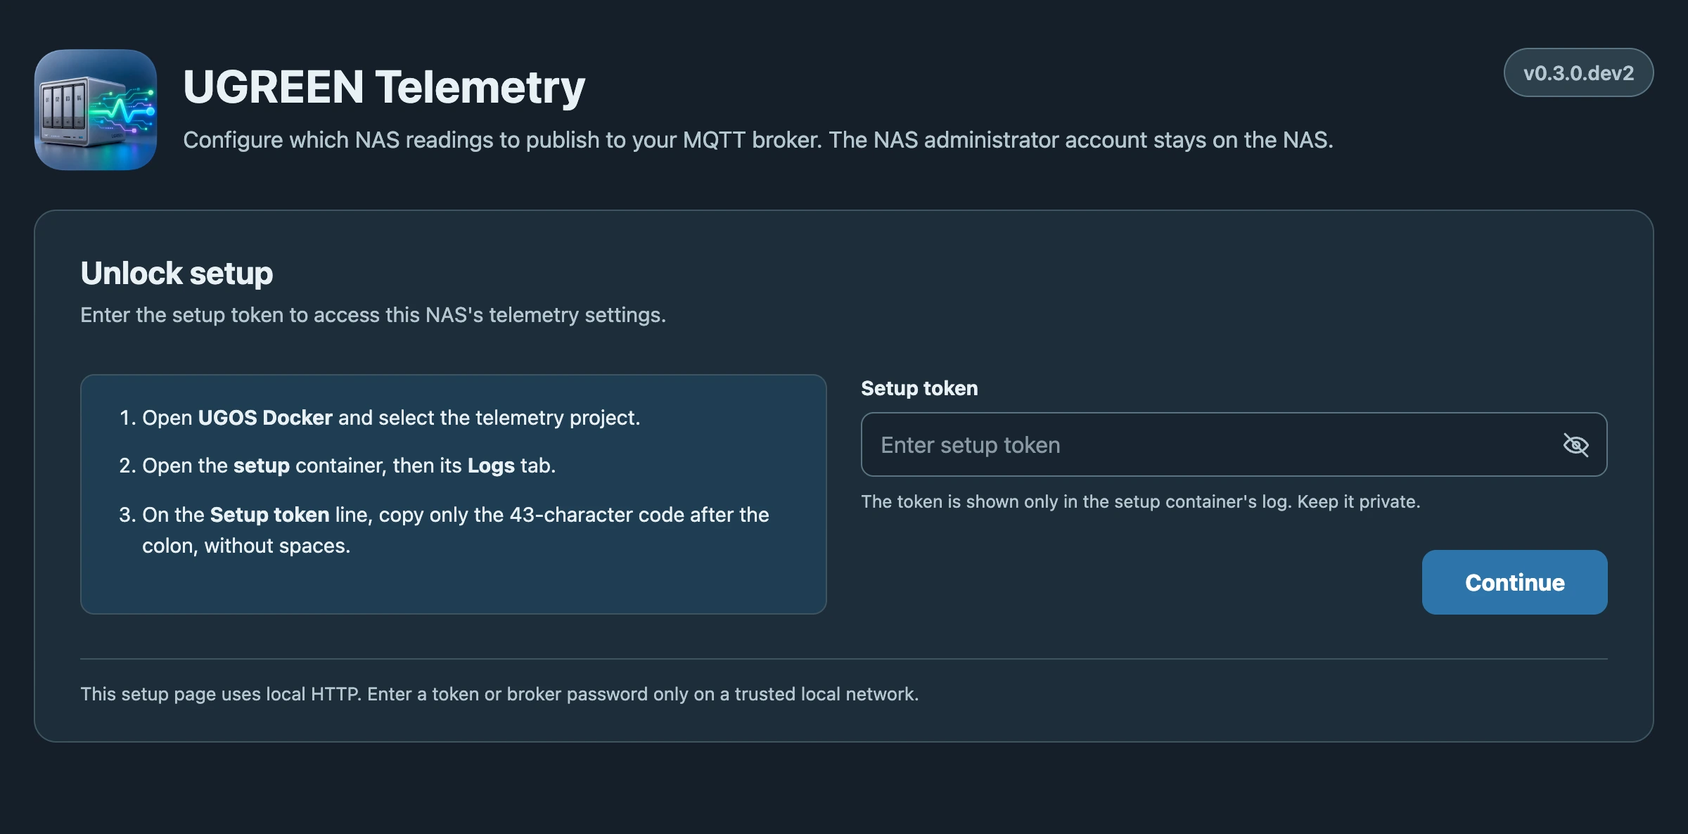
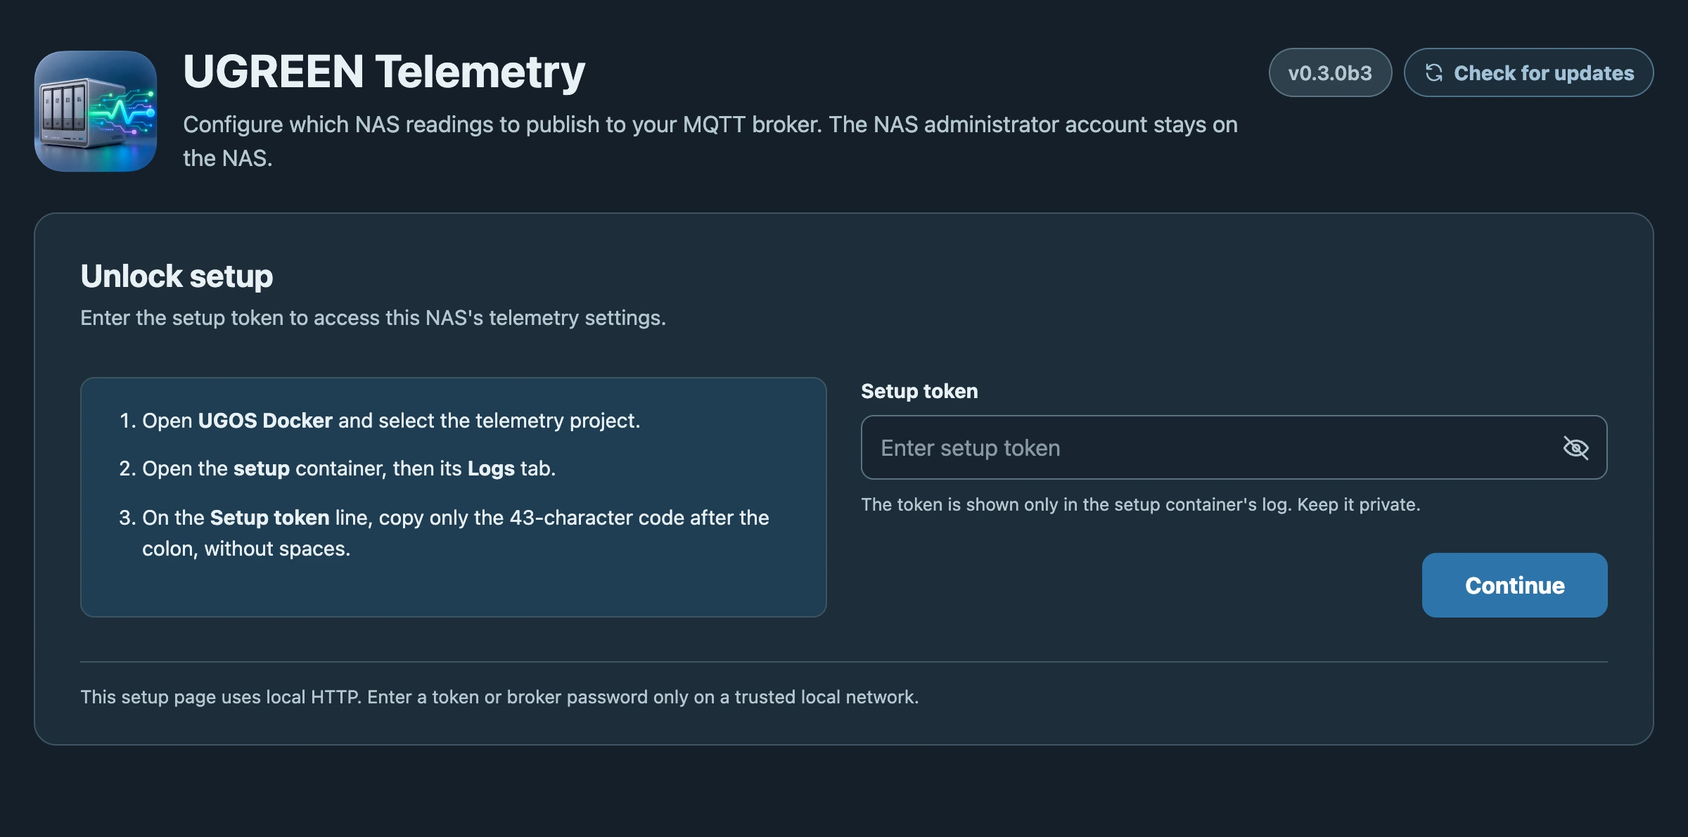
Add an on-demand update check to the setup page
A Check for updates button next to the installed version asks the
GitHub API for the published releases, from the browser and only when
pressed. It names a newer release and links to its notes and to the
UGOS update steps. Betas follow every release; stable versions follow
stable releases only. The content security policy allows only
api.github.com besides the NAS, and the NAS itself sends nothing.

diff --git a/src/ugreen_telemetry/web_assets/update-check.js b/src/ugreen_telemetry/web_assets/update-check.js
@@ -1,0 +1,84 @@
+'use strict';
+// On-demand update check. This browser asks the GitHub API for the published
+// releases; the NAS sends nothing and the setup container opens no connection.
+const UPDATE_REPOSITORY = 'Interstellar0verdrive/ugreen-telemetry-mqtt';
+const UPDATE_RELEASES_API = `https://api.github.com/repos/${UPDATE_REPOSITORY}/releases?per_page=30`;
+const UPDATE_RELEASES_PAGE = `https://github.com/${UPDATE_REPOSITORY}/releases`;
+const UPDATE_GUIDE = `https://github.com/${UPDATE_REPOSITORY}/blob/main/docs/release-and-updates.md#updating-in-ugos`;
+
+// Versions follow Python's format: 0.3.0b2 is the second beta of 0.3.0, and
+// 0.3.0a1 < 0.3.0b1 < 0.3.0rc1 < 0.3.0. Anything else is not comparable.
+function parseVersion(text){
+  const value=String(text).trim().replace(/^v/,'');
+  const match=/^(\d+)\.(\d+)\.(\d+)(?:(a|b|rc)(\d+))?$/.exec(value);
+  if(!match) return null;
+  const stage=match[4]?{a:0,b:1,rc:2}[match[4]]:3;
+  return {text:value,parts:[+match[1],+match[2],+match[3],stage,match[5]?+match[5]:0],stable:!match[4]};
+}
+
+function compareVersions(a,b){
+  for(let i=0;i<a.parts.length;i++) if(a.parts[i]!==b.parts[i]) return a.parts[i]-b.parts[i];
+  return 0;
+}
+
+// Pick the release to offer. A beta or release-candidate install follows every
+// release; a stable install follows stable releases only.
+function chooseUpdate(releases,installedText){
+  const installed=parseVersion(installedText);
+  const candidates=releases
+    .filter(release=>release&&!release.draft)
+    .map(release=>({url:release.html_url,version:parseVersion(release.tag_name)}))
+    .filter(item=>item.version&&(!installed||!installed.stable||item.version.stable))
+    .sort((a,b)=>compareVersions(b.version,a.version));
+  const latest=candidates[0];
+  if(!latest) return null;
+  if(!installed) return {kind:'unknown',installed:null,latest};
+  return {kind:compareVersions(latest.version,installed)>0?'available':'current',installed,latest};
+}
+
+if(typeof document!=='undefined'&&document.getElementById('update-check')){
+  const byId=id=>document.getElementById(id);
+  const button=byId('update-check');
+  const label=byId('update-check-label');
+  const box=byId('update');
+  const notes=byId('update-notes');
+  const guide=byId('update-guide');
+  guide.href=UPDATE_GUIDE;
+
+  const show=(kind,title,detail,link,linkText='Release notes')=>{
+    box.className=`update is-${kind}`;
+    byId('update-title').textContent=title;
+    byId('update-detail').textContent=detail;
+    notes.hidden=!link;
+    if(link){notes.href=link;notes.textContent=linkText;}
+    guide.hidden=kind!=='available';
+    box.hidden=false;
+  };
+
+  button.addEventListener('click',async()=>{
+    const installedText=byId('version').textContent;
+    button.disabled=true;button.classList.add('is-checking');label.textContent='Checking…';
+    const controller=new AbortController();
+    const timer=setTimeout(()=>controller.abort(),10000);
+    try{
+      const response=await fetch(UPDATE_RELEASES_API,{headers:{Accept:'application/vnd.github+json'},cache:'no-store',credentials:'omit',referrerPolicy:'no-referrer',signal:controller.signal});
+      if(!response.ok) throw new Error(`GitHub answered ${response.status}`);
+      const result=chooseUpdate(await response.json(),installedText);
+      if(!result) throw new Error('No published release found');
+      const latest=result.latest.version.text;
+      if(result.kind==='unknown'){
+        show('available',`The latest release is ${latest}`,'This page could not read its own version. Compare it with the image tag in UGOS Docker.',result.latest.url);
+      }else if(result.kind==='available'){
+        show('available',`Version ${latest} is available`,`You have ${result.installed.text}. Read the release notes, then update the project in UGOS Docker.`,result.latest.url);
+      }else{
+        show('current','You have the latest version',`${result.installed.text} is the newest ${result.installed.stable?'stable ':''}release.`,null);
+      }
+    }catch(_error){
+      show('error','Update check unavailable','GitHub could not be reached from this browser. Try again later, or open the releases page.',UPDATE_RELEASES_PAGE,'Releases');
+    }finally{
+      clearTimeout(timer);
+      button.disabled=false;button.classList.remove('is-checking');label.textContent='Check for updates';
+    }
+  });
+  byId('update-close').addEventListener('click',()=>{box.hidden=true;button.focus();});
+}

diff --git a/src/ugreen_telemetry/web_assets/style.css b/src/ugreen_telemetry/web_assets/style.css
@@ -232,3 +232,43 @@
   .login-actions .feedback:not([hidden]){grid-column:1/-1;grid-row:1}
   .login-actions .feedback:not([hidden])+.continue{grid-row:2}
 }
+.update-check{display:inline-flex;align-items:center;gap:7px;white-space:nowrap;padding:8px 13px;border:1px solid var(--brand-line);border-radius:999px;background:var(--surface);color:var(--brand-heading);font-size:.88rem;font-weight:750;cursor:pointer;transition:background-color var(--motion) var(--ease),border-color var(--motion) var(--ease)}
+.update-check svg{flex:none;width:15px;height:15px}
+.update-check:hover{border-color:var(--brand);background:var(--brand-soft)}
+.update-check:focus-visible,.update-link:focus-visible,.update-close:focus-visible{outline:2px solid var(--focus);outline-offset:2px}
+.update-check:disabled{cursor:wait;opacity:.8}
+.update-check.is-checking svg{animation:update-spin 1s linear infinite}
+@keyframes update-spin{to{transform:rotate(360deg)}}
+.update{display:grid;grid-template-columns:auto minmax(0,1fr) auto auto;align-items:center;column-gap:14px;margin:-7px 0 22px;padding:14px 14px 14px 18px;border:1px solid var(--brand-line);border-radius:14px;background:var(--brand-soft)}
+.update[hidden]{display:none}
+.update-icon{width:26px;height:26px;color:var(--brand-heading)}
+.update-icon path{display:none}
+.update.is-available .icon-available,.update.is-current .icon-current,.update.is-error .icon-error{display:inline}
+.update.is-current{border-color:var(--success-line);background:var(--success-soft)}
+.update.is-current .update-icon{color:var(--success)}
+.update.is-error{border-color:color-mix(in srgb,var(--warning) 45%,var(--line));background:var(--warning-soft)}
+.update.is-error .update-icon{color:var(--warning)}
+.update-text{display:flex;flex-direction:column;gap:3px;min-width:0;line-height:1.45}
+.update-text strong{font-size:.95rem}
+.update-text span{color:var(--muted);font-size:.85rem}
+.update-actions{display:flex;align-items:center;gap:8px}
+.update-link{display:inline-flex;align-items:center;justify-content:center;white-space:nowrap;padding:9px 14px;border:1px solid var(--brand-line);border-radius:9px;background:var(--surface);color:var(--brand-heading);font-size:.85rem;font-weight:750;text-decoration:none;transition:background-color var(--motion) var(--ease),border-color var(--motion) var(--ease)}
+.update-link:hover{border-color:var(--brand)}
+.update-link.is-primary{border-color:var(--brand);background:var(--brand);color:var(--on-brand)}
+.update-link.is-primary:hover{background:var(--brand-deep)}
+.update-link[hidden]{display:none}
+.update-close{display:inline-grid;place-items:center;width:32px;height:32px;padding:0;border:0;border-radius:8px;background:transparent;color:var(--muted);cursor:pointer}
+.update-close svg{width:16px;height:16px}
+.update-close:hover{background:color-mix(in srgb,var(--surface) 60%,transparent);color:var(--ink)}
+@media(max-width:660px){
+  .badges{flex-wrap:wrap;row-gap:6px}
+  .update-check{padding:2px 7px;gap:4px;font-size:.72rem;line-height:1.2}
+  .update-check svg{width:11px;height:11px}
+  .update{grid-template-columns:auto minmax(0,1fr) auto;row-gap:12px;column-gap:11px;margin:-8px 0 16px;padding:13px 10px 13px 14px;border-radius:12px}
+  .update-icon{align-self:start;width:22px;height:22px}
+  .update-close{align-self:start;width:28px;height:28px;margin-top:-3px}
+  .update-actions{grid-column:1/-1;grid-row:2}
+  .update-actions:not(:has(.update-link:not([hidden]))){display:none}
+  .update-link{flex:1}
+}
+@media (prefers-reduced-motion: reduce){.update-check.is-checking svg{animation:none}}

diff --git a/src/ugreen_telemetry/web_assets/index.html b/src/ugreen_telemetry/web_assets/index.html
@@ -8,15 +8,22 @@
   <link rel="icon" type="image/png" media="(prefers-color-scheme: dark)" href="app-icon-dark.png">
   <title>UGREEN Telemetry setup</title>
   <link rel="stylesheet" href="style.css">
-  <script src="app.js?v=20261026-3" defer></script>
+  <script src="app.js?v=20261116-1" defer></script>
+  <script src="update-check.js?v=20261116-1" defer></script>
 </head>
 <body>
   <main>
     <header class="masthead">
       <picture class="logo"><source media="(prefers-color-scheme: dark)" srcset="app-icon-dark.png"><img src="app-icon-light.png" alt="" aria-hidden="true"></picture>
       <div class="title-area"><h1>UGREEN Telemetry</h1><p class="intro">Configure which NAS readings to publish to your MQTT broker. The NAS administrator account stays on the NAS.</p></div>
-      <div class="badges"><span class="version">Local preview</span><span class="status" id="verified" hidden>Token verified</span></div>
+      <div class="badges"><span class="version" id="version">Local preview</span><button class="update-check" id="update-check" type="button"><svg viewBox="0 0 24 24" fill="none" stroke="currentColor" stroke-width="2" stroke-linecap="round" stroke-linejoin="round" aria-hidden="true"><path d="M20 11a8 8 0 0 0-14.6-4.5L4 8"/><path d="M4 3v5h5"/><path d="M4 13a8 8 0 0 0 14.6 4.5L20 16"/><path d="M20 21v-5h-5"/></svg><span id="update-check-label">Check for updates</span></button><span class="status" id="verified" hidden>Token verified</span></div>
     </header>
+    <section class="update" id="update" aria-labelledby="update-title" hidden>
+      <svg class="update-icon" viewBox="0 0 24 24" fill="none" stroke="currentColor" stroke-width="2" stroke-linecap="round" stroke-linejoin="round" aria-hidden="true"><circle cx="12" cy="12" r="9"/><path class="icon-available" d="M12 16V8m-3.5 3.5L12 8l3.5 3.5"/><path class="icon-current" d="m8.5 12.2 2.4 2.4 4.6-5"/><path class="icon-error" d="M12 7.5v5.5m0 3.4v.1"/></svg>
+      <div class="update-text" role="status" aria-live="polite"><strong id="update-title"></strong><span id="update-detail"></span></div>
+      <div class="update-actions"><a class="update-link is-primary" id="update-notes" target="_blank" rel="noopener noreferrer">Release notes</a><a class="update-link" id="update-guide" target="_blank" rel="noopener noreferrer">How to update</a></div>
+      <button class="update-close" id="update-close" type="button" aria-label="Close update result"><svg viewBox="0 0 24 24" fill="none" stroke="currentColor" stroke-width="2" stroke-linecap="round" aria-hidden="true"><path d="M6 6l12 12M18 6 6 18"/></svg></button>
+    </section>
     <form id="login" class="panel" aria-labelledby="unlock-title" novalidate>
       <h2 id="unlock-title">Unlock setup</h2>
       <p class="section-intro">Enter the setup token to access this NAS's telemetry settings.</p>

diff --git a/tests/test_update_check.py b/tests/test_update_check.py
@@ -1,0 +1,111 @@
+from __future__ import annotations
+
+import io
+import json
+import shutil
+import subprocess
+import unittest
+from pathlib import Path
+
+from ugreen_telemetry import web
+
+SCRIPT = Path(web.__file__).parent / "web_assets" / "update-check.js"
+NODE = shutil.which("node")
+
+# Runs chooseUpdate() from the page script in Node, without a DOM.
+HARNESS = """
+const vm = require('vm');
+const fs = require('fs');
+const context = {};
+vm.createContext(context);
+vm.runInContext(fs.readFileSync(process.argv[1], 'utf8') + ';this.chooseUpdate=chooseUpdate;', context);
+const cases = JSON.parse(fs.readFileSync(0, 'utf8'));
+const results = cases.map(([releases, installed]) => {
+  const result = context.chooseUpdate(releases, installed);
+  return result && {kind: result.kind, latest: result.latest.version.text, url: result.latest.url};
+});
+process.stdout.write(JSON.stringify(results));
+"""
+
+
+def release(tag, draft=False):
+    return {"tag_name": tag, "draft": draft, "html_url": f"https://example.invalid/{tag}"}
+
+
+@unittest.skipIf(NODE is None, "Node.js is not installed")
+class ChooseUpdateTests(unittest.TestCase):
+    def choose(self, *cases):
+        result = subprocess.run([NODE, "-e", HARNESS, str(SCRIPT)], input=json.dumps(cases),
+                                capture_output=True, text=True, check=True, timeout=30)
+        return json.loads(result.stdout)
+
+    def test_beta_install_is_offered_the_next_beta(self):
+        releases = [release("v0.3.0b1"), release("v0.3.0b3"), release("v0.3.0b2")]
+        available, current = self.choose([releases, "v0.3.0b2"], [releases, "v0.3.0b3"])
+        self.assertEqual(available, {"kind": "available", "latest": "0.3.0b3",
+                                     "url": "https://example.invalid/v0.3.0b3"})
+        self.assertEqual(current["kind"], "current")
+
+    def test_stable_install_ignores_betas(self):
+        only_beta_newer, stable_newer = self.choose(
+            [[release("v0.4.0b1"), release("v0.3.0")], "v0.3.0"],
+            [[release("v0.4.0b1"), release("v0.3.1")], "v0.3.0"])
+        self.assertEqual((only_beta_newer["kind"], only_beta_newer["latest"]), ("current", "0.3.0"))
+        self.assertEqual((stable_newer["kind"], stable_newer["latest"]), ("available", "0.3.1"))
+
+    def test_python_version_order(self):
+        final_after_beta, rc_after_beta, numeric, alpha = self.choose(
+            [[release("v0.3.0")], "v0.3.0b2"],
+            [[release("v0.3.0rc1"), release("v0.3.0b9")], "v0.3.0b9"],
+            [[release("v0.10.0b1"), release("v0.9.0b1")], "v0.9.0b1"],
+            [[release("v0.3.0a1")], "v0.3.0b1"])
+        self.assertEqual((final_after_beta["kind"], final_after_beta["latest"]), ("available", "0.3.0"))
+        self.assertEqual(rc_after_beta["latest"], "0.3.0rc1")
+        self.assertEqual(numeric["latest"], "0.10.0b1")
+        self.assertEqual((alpha["kind"], alpha["latest"]), ("current", "0.3.0a1"))
+
+    def test_drafts_and_unknown_tags_are_ignored(self):
+        result, nothing = self.choose(
+            [[release("v9.9.9", draft=True), release("v0.3.0.dev2"), release("latest"), release("v0.3.0b2")], "v0.3.0b1"],
+            [[release("v0.3.0.dev2")], "v0.3.0b1"])
+        self.assertEqual(result["latest"], "0.3.0b2")
+        self.assertIsNone(nothing)
+
+    def test_unreadable_installed_version_still_names_the_latest_release(self):
+        development, preview = self.choose([[release("v0.3.0b2")], "vdevelopment"],
+                                           [[release("v0.3.0b2")], "Local preview"])
+        self.assertEqual((development["kind"], development["latest"]), ("unknown", "0.3.0b2"))
+        self.assertEqual(preview["kind"], "unknown")
+
+
+class SetupPageTests(unittest.TestCase):
+    def response(self, path):
+        handler = object.__new__(web.Handler)
+        handler.path = path
+        handler.headers = {}
+        handler.wfile = io.BytesIO()
+        sent = {}
+        handler.send_response = lambda code: sent.setdefault("code", code)
+        handler.send_header = lambda name, value: sent.setdefault(name, value)
+        handler.end_headers = lambda: None
+        handler.do_GET()
+        return sent, handler.wfile.getvalue()
+
+    def test_page_may_contact_only_itself_and_the_github_api(self):
+        headers, _body = self.response("/")
+        policy = dict(part.strip().split(" ", 1) for part in headers["Content-Security-Policy"].split(";"))
+        self.assertEqual(policy["connect-src"], "'self' https://api.github.com")
+        self.assertEqual(policy["script-src"], "'self'")
+
+    def test_update_script_is_served_and_loaded(self):
+        headers, body = self.response("/update-check.js?v=1")
+        self.assertEqual(headers["code"], 200)
+        self.assertIn(b"'Interstellar0verdrive/ugreen-telemetry-mqtt'", body)
+        self.assertIn(b"https://api.github.com/repos/${UPDATE_REPOSITORY}/releases", body)
+        _headers, page = self.response("/")
+        self.assertIn(b'src="update-check.js', page)
+        self.assertIn(b'id="update-check"', page)
+
+
+if __name__ == "__main__":
+    unittest.main()

diff --git a/src/ugreen_telemetry/web.py b/src/ugreen_telemetry/web.py
@@ -269,7 +269,7 @@ class Handler(BaseHTTPRequestHandler):
         self.send_header("X-Content-Type-Options", "nosniff")
         self.send_header("X-Frame-Options", "DENY")
         self.send_header("Referrer-Policy", "no-referrer")
-        self.send_header("Content-Security-Policy", "default-src 'none'; script-src 'self'; style-src 'self'; img-src 'self'; connect-src 'self'; form-action 'none'; base-uri 'none'")
+        self.send_header("Content-Security-Policy", "default-src 'none'; script-src 'self'; style-src 'self'; img-src 'self'; connect-src 'self' https://api.github.com; form-action 'none'; base-uri 'none'")
         self.end_headers()
         self.wfile.write(data)
 
@@ -289,6 +289,7 @@ class Handler(BaseHTTPRequestHandler):
         path = urlsplit(self.path).path
         assets = {"/": ("index.html", "text/html; charset=utf-8"),
                   "/app.js": ("app.js", "application/javascript; charset=utf-8"),
+                  "/update-check.js": ("update-check.js", "application/javascript; charset=utf-8"),
                   "/style.css": ("style.css", "text/css; charset=utf-8"),
                   "/app-icon-dark.png": ("app-icon-dark.png", "image/png"),
                   "/app-icon-light.png": ("app-icon-light.png", "image/png")}

diff --git a/docs/release-and-updates.md b/docs/release-and-updates.md
@@ -10,7 +10,7 @@ You always start an update; the project never updates itself. The configuration 
 
 ## Updating in UGOS
 
-1. **Wait for the notice.** When a release moves the tag you follow, UGOS Docker marks the project and its containers as **Updatable**, and the **Project** page shows a banner such as "1 project can be updated". The check is not immediate: on my NAS the notice appeared about two and a half hours after the release, and for one container before the other.
+1. **Wait for the notice.** Press **Check for updates** on the setup page to see whether a newer release exists. When a release moves the tag you follow, UGOS Docker marks the project and its containers as **Updatable**, and the **Project** page shows a banner such as "1 project can be updated". The check is not immediate: on my NAS the notice appeared about two and a half hours after the release, and for one container before the other.
 2. **Read the release notes**, then choose **Updatable** on the project, or **Update** in the banner, and confirm. UGOS pulls the image again under the same tag and recreates the project's containers with the same Compose configuration. Its warning that data not mounted to the NAS might be lost does not apply to the settings and the MQTT password, which live in named volumes. The reader rebuilds the in-memory snapshot by itself.
 3. **Check the version** in the badge at the top of the setup page. If it still shows the previous version, open the project's **Compose configuration**, choose **Redeploy**, tick **Pull the latest image**, and deploy. This recreates both containers with the new image.
 
@@ -38,9 +38,15 @@ The Compose files grant `SYS_RAWIO` only to the network-isolated reader, alongsi
 
 [`compose.ugos.yaml`](../compose.ugos.yaml) builds the image on the NAS from a copy of this repository. It is useful for testing changes, but UGOS has no remote image tag to watch, so it cannot show an "update available" notice. To update, replace the source files and rebuild the project.
 
-## Planned: update check in the wizard
+## Update check in the setup page
 
-The setup page should offer an on-demand **Check for updates** control. It should show the installed version, check the latest release, and link to its release notes. If the check fails or the NAS is offline, it should say that the result is unavailable. It should direct the user to update the image in UGOS Docker; the setup page must not access the Docker socket or perform the update itself.
+The setup page shows the installed version in its header, with a **Check for updates** button next to it. The check runs only when you press the button:
+
+- your browser asks the GitHub API for the published releases; the NAS sends nothing, and the setup container opens no connection. The page's content security policy allows only `api.github.com` besides the NAS itself;
+- a beta or release candidate is compared with every release, and a stable version with stable releases only;
+- when a newer release exists, the page names it and links to its release notes and to the steps above. Otherwise it says you have the latest version, or that GitHub could not be reached.
+
+The page never updates the project and has no access to the Docker socket: you always update from UGOS Docker.
 
 ## Release format
 

diff --git a/docs/installation.md b/docs/installation.md
@@ -61,7 +61,7 @@ Do not paste the setup token, MQTT password, or full container logs into an issu
 
 ## Update
 
-Read the release notes and the [changelog](../CHANGELOG.md) first: a version that changes the stored settings format must say so. When UGOS Docker marks the project as **Updatable**, update it from the **Project** page, then check the version in the badge at the top of the setup page. If the badge still shows the old version, redeploy the project with **Pull the latest image** ticked. With the source build, replace the files in the project folder and rebuild the project instead. Either way, the settings and MQTT password stay in the project's named volumes whose names end in `telemetry_config` and `telemetry_secrets`. The [release and update policy](release-and-updates.md) has the details.
+**Check for updates** in the setup page header tells you whether a newer release exists. Read the release notes and the [changelog](../CHANGELOG.md) first: a version that changes the stored settings format must say so. When UGOS Docker marks the project as **Updatable**, update it from the **Project** page, then check the version in the badge at the top of the setup page. If the badge still shows the old version, redeploy the project with **Pull the latest image** ticked. With the source build, replace the files in the project folder and rebuild the project instead. Either way, the settings and MQTT password stay in the project's named volumes whose names end in `telemetry_config` and `telemetry_secrets`. The [release and update policy](release-and-updates.md) has the details.
 
 ## Remove
 

diff --git a/docs/security-model.md b/docs/security-model.md
@@ -30,6 +30,8 @@ Each HDD's sensor identifier is derived from its hardware path, so it stays stab
 
 The setup page uses local HTTP. The token and the MQTT password cross the LAN unencrypted while you configure it, so use it only on a trusted network and never expose port 8765 through a router or reverse proxy without proper HTTPS and access control.
 
+The **Check for updates** button in the setup page makes your browser, not the NAS, request the list of releases from `api.github.com`, and only when you press it. The page's content security policy allows no other outside address.
+
 With TLS off, MQTT traffic and its password also travel unencrypted over the local network. Use TLS with a verifiable certificate when the network path is not trusted. If you depend on broker ACLs to restrict the dedicated login, verify that the broker actually applies them; do not infer isolation from the username alone. A report about custom ACL behavior in Home Assistant's Mosquitto add-on is tracked [upstream](https://github.com/home-assistant/addons/issues/4721).
 
 The project publishes telemetry only and accepts no MQTT commands. If readings drive fan or safety automations, set plausible limits and a safe behavior when a sensor is unavailable or stale.

diff --git a/README.md b/README.md
@@ -67,7 +67,7 @@ The wizard follows the browser's light or dark theme and adapts to phone screens
 
 The project is published as a container image on GitHub Container Registry, and UGOS Docker downloads it from a short Compose file. The [installation guide](docs/installation.md) walks through creating the UGOS Docker project, opening the wizard, and checking the result. Read the code first: the wizard and publisher are in [`src/ugreen_telemetry/`](src/ugreen_telemetry/), and the disk reader uses [`host-smart-snapshot.py`](host-smart-snapshot.py).
 
-The [release and update policy](docs/release-and-updates.md) explains image tags and updates.
+The setup page has a **Check for updates** button: on request, your browser checks GitHub for a newer release and links to its notes and to the update steps. The [release and update policy](docs/release-and-updates.md) explains image tags and updates.
 
 ## Behavior after restarts
 
